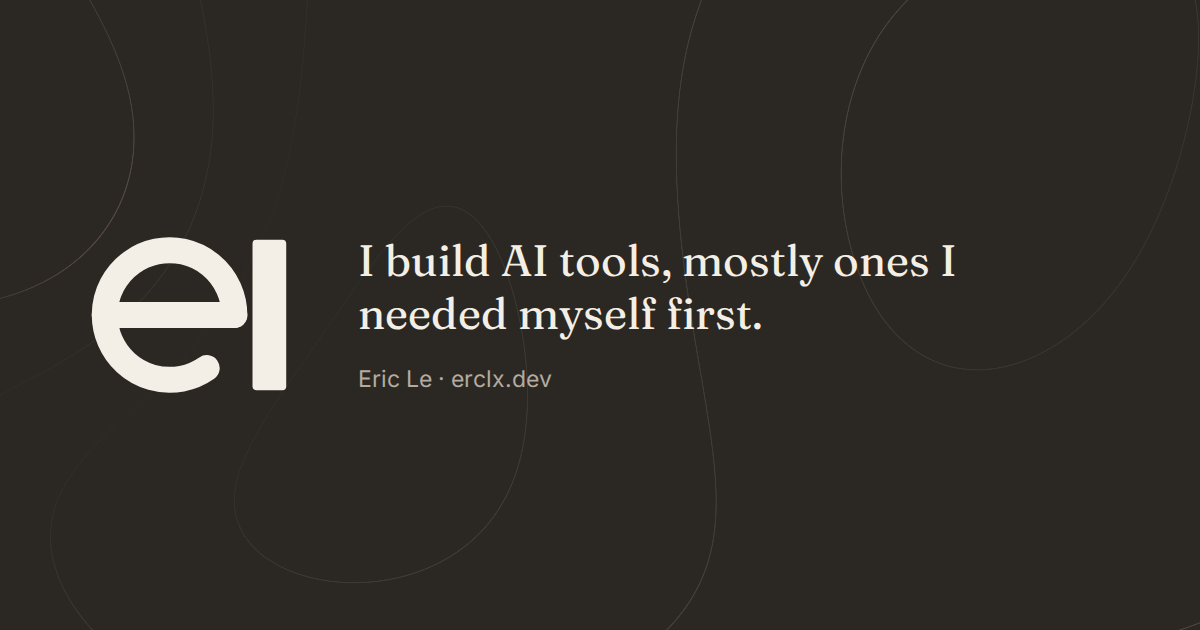
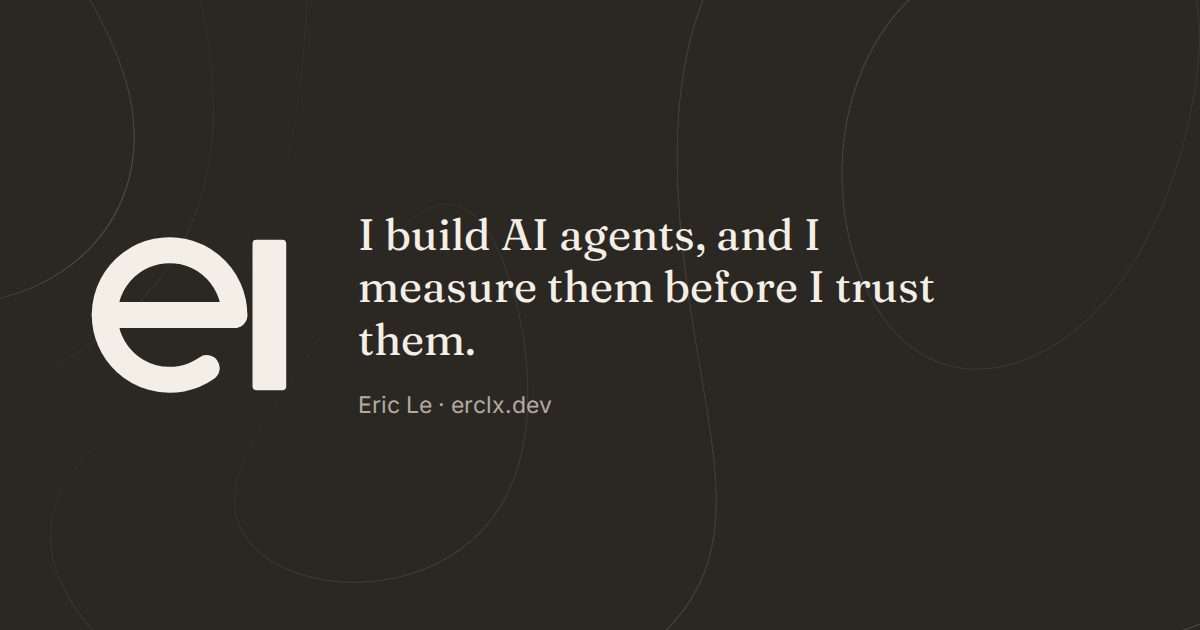
feat(share): draw the new header line on the share card

Changed region(s): [[0.2775, 0.3317, 0.8017, 0.6635], [0.9867, 0.9952, 1.0, 1.0]]

diff --git a/scripts/card-copy.ts b/scripts/card-copy.ts
@@ -7,4 +7,5 @@
  * no page's description repeats it, and importing the script would run it,
  * since that file launches a browser at the top level.
  */
-export const CARD_CLAIM = 'I build AI tools, mostly ones I needed myself first.'
+export const CARD_CLAIM =
+  'I build AI agents, and I measure them before I trust them.'
